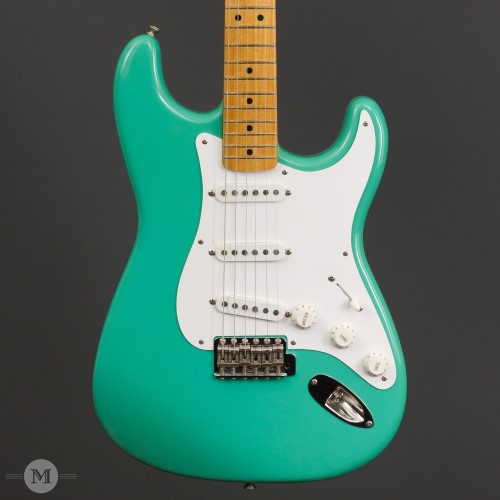
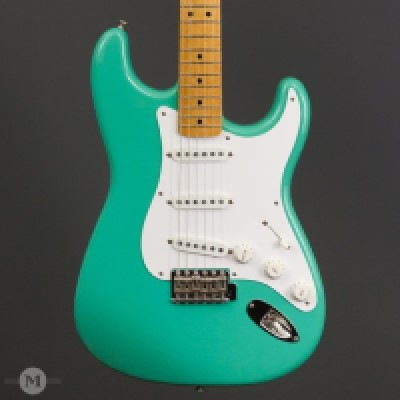
Adjusted pictures to fit slideshow

diff --git a/public/index.html b/public/index.html
@@ -80,7 +80,6 @@
 	</div>
 
 
-
 	<!-- Script section -->
 	<script src="https://code.jquery.com/jquery-3.2.1.slim.min.js" integrity="sha384-KJ3o2DKtIkvYIK3UENzmM7KCkRr/rE9/Qpg6aAZGJwFDMVNA/GpGFF93hXpG5KkN" crossorigin="anonymous"></script>
 	<script src="https://cdnjs.cloudflare.com/ajax/libs/popper.js/1.12.9/umd/popper.min.js" integrity="sha384-ApNbgh9B+Y1QKtv3Rn7W3mgPxhU9K/ScQsAP7hUibX39j7fakFPskvXusvfa0b4Q" crossorigin="anonymous"></script>
@@ -88,8 +87,8 @@
 
 	<script>
 		$(document).ready(function(){
-			$("#myCarousel").carousel({
-				interval: 400
+			$("#MagicCarousel").carousel({
+				interval: 2000
 			});
 		});
 	</script>

diff --git a/public/css/main.css b/public/css/main.css
@@ -9,6 +9,14 @@ body {
 	background-image: url("../images/background1.jpg");
 	background-size: cover; }
 
+.carousel{
+
+  max-width: 400px;
+  max-height:400px;
+  align-content: center;
+}
+
+
 nav {
   width: 100%;
   margin: 20px 0; }
